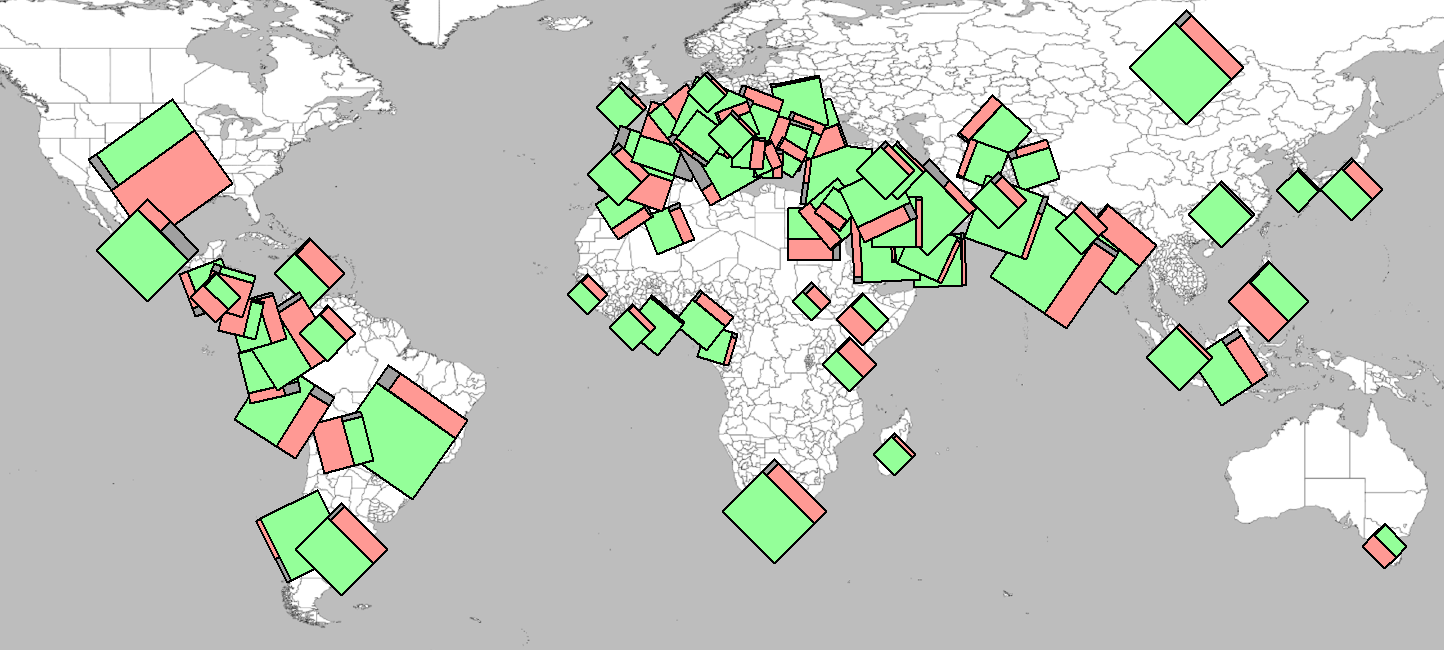
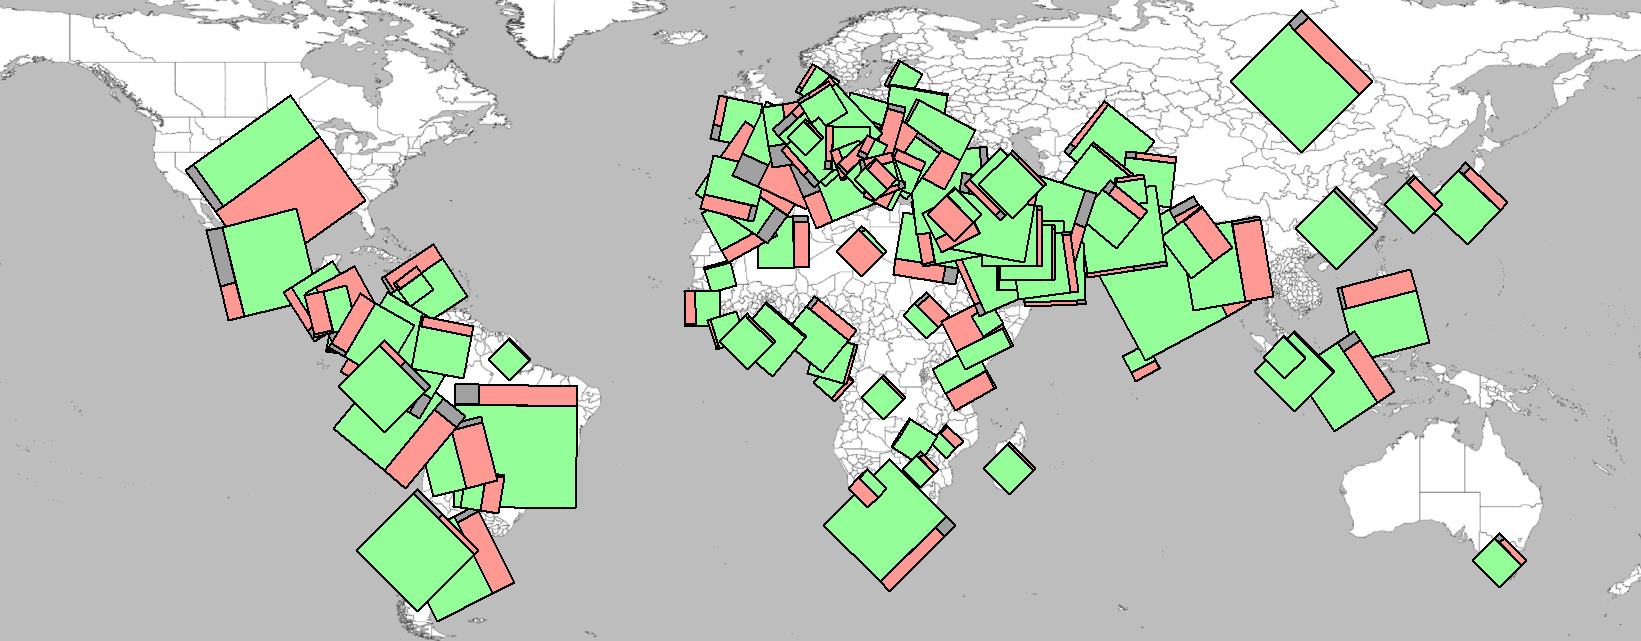
squares was somehow the wrong dataset

diff --git a/slides/main.tex b/slides/main.tex
@@ -93,11 +93,11 @@
 
 
 
-  \begin{frame}
-\begin{figure}[!t]
-  \centering
-  \includegraphics[height=5cm]{assets/MinMinAbsEval.png}
-\end{figure}
+\begin{frame}
+	\begin{figure}[!t]
+  		\centering
+  		\includegraphics[height=5cm]{assets/MinMinAbsEval.png}
+	\end{figure}
 
 \begin{table}
 \resizebox{9cm}{!}{%
@@ -105,23 +105,23 @@
       \hline
       algorithm            & covered & minVis (rel) & minVis (abs) & min one glyph & average rel vis & absolute perc \\
       \hline
-      random               &  {44}      & 0.071 (0)    & 0.995 (0)    & 0             & 0.658           & 0.677         \\
+      random               &  {44}      & 0.011 (0)    & 0.995 (0)    & 0             & 0.658           & 0.677         \\
 
-      LeftToRight          &  {42}      & 0.331 (0)    & 2.189 (0)    & 0             & 0.641           & 0.678         \\
+      LeftToRight          &  {42}      & 0.053 (0)    & 2.189 (0)    & 0             & 0.641           & 0.678         \\
 
-      RightToLeft          &{  43}      & 0.324 (0)    & 0.995 (0)    & 0             & 0.656           & 0.693         \\
+      RightToLeft          &{  43}      & 0.053 (0)    & 0.995 (0)    & 0             & 0.656           & 0.693         \\
 	\hline
-      Painter              & {  16 }     & 0.408 (0)    & 6.283 (0)    & 34.991        & 0.761           & 0.718
+      Painter              & {  16 }     & 0.064 (0)    & 6.283 (0)    & 34.991        & 0.761           & 0.718
      \\
 
-      MinMinStacking (abs) & {  16 }     & 0.473 (0)    & 2.189 (0)    & 44.467        & 0.757           & 0.724         \\
+      MinMinStacking (abs) & {  16 }     & 0.075 (0)    & 2.189 (0)    & 44.467        & 0.757           & 0.724         \\
 
       \hline
-      MinMinStacking (rel) & { 18 }     & 0.691 (0)    & 2.189 (0)    & 37.327        & 0.748           & 0.725         \\
+      MinMinStacking (rel) & { 18 }     & 0.11 (0)    & 2.189 (0)    & 37.327        & 0.748           & 0.725         \\
 
-      MinSumStacking (abs) & \red{ 18}      & 0.702 (0)    & 3.974 (0)    & \red{44.467}        & 0.75            & 0.721         \\
+      MinSumStacking (abs) & \red{ 18}      & 0.111 (0)    & 3.974 (0)    & \red{44.467}        & 0.75            & 0.721         \\
 
-      MinSumStacking (rel) &{  18 }     & 0.702 (0)    & 2.189 (0)    & 37.327        & 0.744           & 0.723         \\
+      MinSumStacking (rel) &{  18 }     & 0.111 (0)    & 2.189 (0)    & 37.327        & 0.744           & 0.723         \\
 
       \hline
     \end{tabular}}
@@ -141,15 +141,15 @@
       \hline
       algorithm    & covered & minVis (rel) & minVis (abs) & min one Glyph & average rel vis & absolute perc \\
       \hline
-      random       & 21      & 0.025 (0)    & 0.589 (0)    & 0             & 0.765           & 0.714         \\
+      random       & 21      & 0.0001 (0)    & 0.589 (0)    & 0             & 0.765           & 0.714         \\
 
-      LeftToRight  & 12      & 0.948 (0)    & 2.743 (0)    & 0             & 0.775           & 0.725         \\
+      LeftToRight  & 12      & 0.15 (0)    & 2.743 (0)    & 0             & 0.775           & 0.725         \\
 
-      RightToLeft  & 13      & 0.664 (0)    & 2.89 (0)     & 0             & 0.783           & 0.735         \\
+      RightToLeft  & 13      & 0.106 (0)    & 2.89 (0)     & 0             & 0.783           & 0.735         \\
 \hline
-      Painter      & \red 0       & \red{0.585}        & 6.283        & 47.758        & 0.857           & 0.759         \\
+      Painter      & \red 0       & \red{0.093}        & 6.283        & 47.758        & 0.857           & 0.759         \\
 
-      our Stacking & \red 0       & \red{ 2.342 }       & 6.283        & 75.034        & 0.859           & 0.77          \\
+      our Stacking & \red 0       & \red{ 0.373 }       & 6.283        & 75.034        & 0.859           & 0.77          \\
 
       \hline
     \end{tabular}}
@@ -158,6 +158,7 @@
 \end{table}
 \end{frame}
 
+
 \begin{frame}
 \begin{table}
 \resizebox{9cm}{!}{%
@@ -165,27 +166,26 @@
       \hline
       algorithm            & covered & minVis (rel) & minVis (abs) & min one glyph & average rel vis & absolute perc \\
       \hline
-      random               & 44      & 0.071 (0)    & 0.995 (0)    & 0             & 0.658           & 0.677         \\
+      random               & 44      & 0.011 (0)    & 0.995 (0)    & 0             & 0.658           & 0.677         \\
 
-      LeftToRight          & 42      & 0.331 (0)    & 2.189 (0)    & 0             & 0.641           & 0.678         \\
+      LeftToRight          & 42      & 0.053 (0)    & 2.189 (0)    & 0             & 0.641           & 0.678         \\
 
-      RightToLeft          & 43      & 0.324 (0)    & 0.995 (0)    & 0             & 0.656           & 0.693         \\
+      RightToLeft          & 43      & 0.053 (0)    & 0.995 (0)    & 0             & 0.656           & 0.693         \\
 \hline
-      Painter              &  16      & 0.408 (\red 0)    & 6.283 (0)    & 34.991        & \red {0.761}           & \red {0.718}         \\
+      Painter              &  \red{16}        & 0.064 (\red 0)    & 6.283 (0)    & 34.991        & \red {0.761}           & \red {0.718}         \\
 
-      MinMinStacking (abs) & 16      & 0.473 (\red 0)    & 2.189 (0)    & 44.467        & \red {0.757}           & \red {0.724}         \\
+      MinMinStacking (abs) & \red{16}      & 0.075 (\red 0)    & 2.189 (0)    & 44.467        & \red {0.757}           & \red {0.724}         \\
 \hline
-      MinMinStacking (rel) & 18      & 0.691 (0)    & 2.189 (0)    & 37.327        & 0.748           & 0.725         \\
+      MinMinStacking (rel) & 18      & 0.11 (0)    & 2.189 (0)    & 37.327        & 0.748           & 0.725         \\
 
-      MinSumStacking (abs) & 18      & 0.702 (0)    & 3.974 (0)    & 44.467        & 0.75            & 0.721         \\
+      MinSumStacking (abs) & 18      & 0.111 (0)    & 3.974 (0)    & 44.467        & 0.75            & 0.721         \\
 
-      MinSumStacking (rel) & 18      & 0.702 (0)    & 2.189 (0)    & 37.327        & 0.744           & 0.723         \\
+      MinSumStacking (rel) & 18      & 0.111 (0)    & 2.189 (0)    & 37.327        & 0.744           & 0.723         \\
 
       \hline
     \end{tabular}}
 \caption{centered disks  }
 \end{table}
-
 \begin{table}[!h]
   \begin{table}[!h]
 \begin{center}
@@ -194,15 +194,15 @@
       \hline
       algorithm    & covered & minVis (rel) & minVis (abs) & min one Glyph & average rel vis & absolute perc \\
       \hline
-      random       & 21      & 0.025 (0)    & 0.589 (0)    & 0             & 0.765           & 0.714         \\
+      random       & 21      & 0.0001(0)    & 0.589 (0)    & 0             & 0.765           & 0.714         \\
 
-      LeftToRight  & 12      & 0.948 (0)    & 2.743 (0)    & 0             & 0.775           & 0.725         \\
+      LeftToRight  & 12      & 0.15 (0)    & 2.743 (0)    & 0             & 0.775           & 0.725         \\
 
-      RightToLeft  & 13      & 0.664 (0)    & 2.89 (0)     & 0             & 0.783           & 0.735         \\
+      RightToLeft  & 13      & 0.106 (0)    & 2.89 (0)     & 0             & 0.783           & 0.735         \\
 \hline
-      Painter      &\red 0       & 0.585        & 6.283        & 47.758        & \red{ 0.857  }         & \red{ 0.759  }       \\
+      Painter      &\red 0       & 0.093        & 6.283        & 47.758        & \red{ 0.857  }         & \red{ 0.759  }       \\
 
-      our Stacking &\red 0       & \red{2.342}        & 6.283        & 75.034        & \red{ 0.859 }     &     \red{ 0.77 }        \\
+      our Stacking &\red 0       & \red{0.373}        & 6.283        & 75.034        & \red{ 0.859 }     &     \red{ 0.77 }        \\
 
       \hline
     \end{tabular}}
@@ -211,8 +211,8 @@
   date: 02.08.2020  , $M=50$, $S=500$ and $\text{MnC}=5000$ }
 \end{table}
 \end{table}
-
 \end{frame}
+
 
 \begin{frame}
 \begin{figure}[!t]
@@ -223,20 +223,14 @@
   \centering
   \includegraphics[height=4cm]{assets/hawaiianEval.png}
 \end{figure}
-
-
-
 \end{frame}
-\begin{frame}
 
+
+\begin{frame}
 \begin{figure}[!b]
   \centering
   \includegraphics[height=5cm]{assets/pieChartsEval.png}
 \end{figure}
-
-
-
-
 \begin{table}[h]
   \begin{center}\resizebox{7cm}{!}{
     \begin{tabular}{| l || l | l | l | l |}
@@ -248,7 +242,7 @@
       random+heuristic   & 29      & 0.0 (0)   & 1.587     & 42.946     \\
 
       RightToLeft        & 18      & 0.017 (0) & 1.621      & 43.407     \\
-
+	\hline
       Painter+ heuristic & \red{5 }      & 0.022 (0) & 1.706      & 41.719   \\
 
       our Stacking       & \red{0}     & 0.271     & 1.765      & 44.452      \\
@@ -262,13 +256,10 @@
 
 
 \begin{frame}
-
 \begin{figure}[b]
   \centering
   \includegraphics[height=5cm]{assets/squaresEval.png}
-
 \end{figure}
-
 \begin{table}[h]
   \begin{center}
   \resizebox{7cm}{!}{
@@ -277,25 +268,24 @@
       algorithm                           & covered & minDist \\  %& minDistAvg \\
       \hline
 
-      random Stacking+random rotations    & 35      & 0.361 (0)\\ %& 35.846     \\
+      random Stacking+random rotations    & 87      & 0.235 (0)\\ %& 35.846     \\
 
-      Painter+random rotations            & 17      & 0.251 (0)\\ %& 34.406     \\
+      Painter+random rotations            & 41     & 0.58 (0)\\ %& 34.406     \\
 
-      random Stacking+heuristic rotations & 26      & 0.038 (0)\\ %& 34.776     \\
+      random Stacking+heuristic rotations & 56    & 0.027 (0)\\ %& 34.776     \\
 \hline
-      Painter+heuristic                   & \red{14}      & 0.263 (0)\\ %& 32.061     \\
+      Painter+heuristic                   & \red{19}      & 0.052 (0)\\ %& 32.061     \\
 
-      our Stacking                        & \red 7       & 0.078 (0)\\ %& 25.232     \\
+      our Stacking                        & \red{ 13}       & 0.052 (0)\\ %& 25.232     \\
 
       \hline
     \end{tabular}}
   \end{center}
   \caption{
     date: 22.08.2020  , $M=50$, $S=500$ and $\text{MnC}=5000$  }
-
 \end{table}
-
 \end{frame}
+
 
 \begin{frame}
 \begin{figure}[!b]
@@ -307,8 +297,6 @@
   \centering
   \includegraphics[height=4.2cm]{assets/squaresEval.png}
 \end{figure}
-
-
 \end{frame}
 
 
